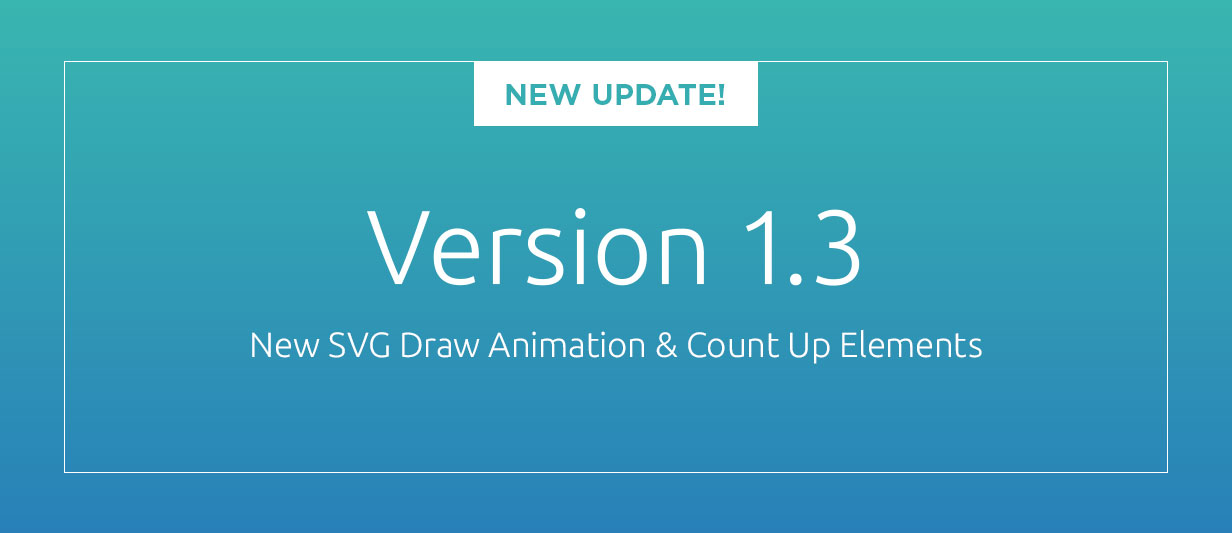
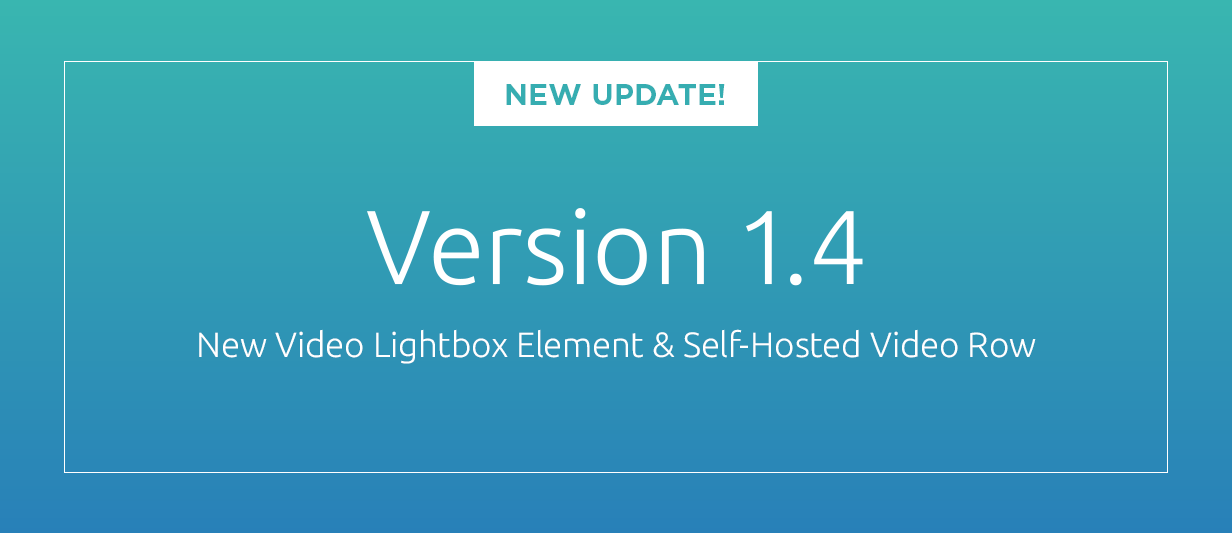
V1.4

Changed region(s): [[0.1542, 0.6004, 0.8328, 0.6904], [0.6477, 0.3902, 0.7094, 0.5403]]

diff --git a/cc/superbundle/demo.html b/cc/superbundle/demo.html
@@ -33,157 +33,163 @@
 			</button>
 		</div>
 		<div class="vcsb_card vcsb_plugin_separators" data-demo="http://demos2.gambit.ph/rowseparators/?nopreview" onclick="">
-	<div class="vcsb_image" style="background-image: url(http://source.unsplash.com/random/427x227?sig=97900)"></div>
+	<div class="vcsb_image" style="background-image: url(http://source.unsplash.com/random/438x235?sig=76414)"></div>
 	<span class="desc">Separate your content with unique row separators designs</span>
 	<span>Row Separators</span>
 	<span class="new"></span>
 </div>
 <div class="vcsb_card vcsb_plugin_row-scroll" data-demo="http://demos2.gambit.ph/rowscroll/?nopreview" onclick="">
-	<div class="vcsb_image" style="background-image: url(http://source.unsplash.com/random/422x231?sig=57662)"></div>
+	<div class="vcsb_image" style="background-image: url(http://source.unsplash.com/random/430x236?sig=43422)"></div>
 	<span class="desc">Add entrance and exit animations on your containers</span>
 	<span>Row Scroll Animations</span>
 	<span class="new"></span>
 </div>
 <div class="vcsb_card vcsb_plugin_fonts" data-demo="http://demos2.gambit.ph/fonts?nopreview" onclick="">
-	<div class="vcsb_image" style="background-image: url(http://source.unsplash.com/random/417x206?sig=78553)"></div>
+	<div class="vcsb_image" style="background-image: url(http://source.unsplash.com/random/434x203?sig=28220)"></div>
 	<span class="desc">Use 800+ Google fonts</span>
 	<span>Google Fonts</span>
 	<span class="new"></span>
 </div>
 <div class="vcsb_card vcsb_plugin_carousel" data-demo="http://demos2.gambit.ph/carousel/?nopreview" onclick="">
-	<div class="vcsb_image" style="background-image: url(http://source.unsplash.com/random/435x248?sig=25639)"></div>
+	<div class="vcsb_image" style="background-image: url(http://source.unsplash.com/random/448x241?sig=6694)"></div>
 	<span class="desc">Create carousels containing anything</span>
 	<span>Carousel</span>
 	<span class="new"></span>
 </div>
+<div class="vcsb_card vcsb_plugin_video-lightbox" data-demo="http://demos.gambit.ph/seamless-video-lightbox/" onclick="">
+	<div class="vcsb_image" style="background-image: url(http://source.unsplash.com/random/424x248?sig=16746)"></div>
+	<span class="desc">Play a large video lightbox popup</span>
+	<span>Video Lightbox</span>
+	<span class="new">New!</span>
+</div>
 <div class="vcsb_card vcsb_plugin_countup" data-demo="http://demos2.gambit.ph/number-count-up/?nopreview" onclick="">
-	<div class="vcsb_image" style="background-image: url(http://source.unsplash.com/random/419x211?sig=65949)"></div>
+	<div class="vcsb_image" style="background-image: url(http://source.unsplash.com/random/418x245?sig=28167)"></div>
 	<span class="desc">Count upward animation from zero</span>
 	<span>Count Up</span>
 	<span class="new">New!</span>
 </div>
 <div class="vcsb_card vcsb_plugin_shadows" data-demo="http://demos2.gambit.ph/shadows?nopreview" onclick="">
-	<div class="vcsb_image" style="background-image: url(http://source.unsplash.com/random/404x240?sig=99579)"></div>
+	<div class="vcsb_image" style="background-image: url(http://source.unsplash.com/random/405x200?sig=54086)"></div>
 	<span class="desc">Add shadows on columns, images and buttons</span>
 	<span>Shadows</span>
 	<span class="new"></span>
 </div>
 <div class="vcsb_card vcsb_plugin_text-gradient" data-demo="http://demos2.gambit.ph/text-gradient?nopreview" onclick="">
-	<div class="vcsb_image" style="background-image: url(http://source.unsplash.com/random/426x241?sig=35551)"></div>
+	<div class="vcsb_image" style="background-image: url(http://source.unsplash.com/random/436x221?sig=12497)"></div>
 	<span class="desc">Color your text with gradients</span>
 	<span>Text Gradient</span>
 	<span class="new"></span>
 </div>
 <div class="vcsb_card vcsb_plugin_svg-icons" data-demo="http://demos2.gambit.ph/12k-svg-icons/?nopreview" onclick="">
-	<div class="vcsb_image" style="background-image: url(http://source.unsplash.com/random/401x213?sig=97085)"></div>
+	<div class="vcsb_image" style="background-image: url(http://source.unsplash.com/random/443x231?sig=34551)"></div>
 	<span class="desc">Add icons & buttons, choose from 12,000+ SVG vector icons</span>
 	<span>SVG Icons</span>
 	<span class="new"></span>
 </div>
 <div class="vcsb_card vcsb_plugin_svgdraw" data-demo="http://demos2.gambit.ph/svg-draw-animation/?nopreview" onclick="">
-	<div class="vcsb_image" style="background-image: url(http://source.unsplash.com/random/444x219?sig=52827)"></div>
+	<div class="vcsb_image" style="background-image: url(http://source.unsplash.com/random/447x208?sig=25277)"></div>
 	<span class="desc">SVG draw outline entrance animation</span>
 	<span>SVG Draw Animation</span>
 	<span class="new">New!</span>
 </div>
 <div class="vcsb_card vcsb_plugin_text-effects" data-demo="http://demos2.gambit.ph/texteffects/?nopreview" onclick="">
-	<div class="vcsb_image" style="background-image: url(http://source.unsplash.com/random/423x202?sig=22575)"></div>
+	<div class="vcsb_image" style="background-image: url(http://source.unsplash.com/random/437x217?sig=89157)"></div>
 	<span class="desc">A cool animating text element, great for headings</span>
 	<span>Text Effects</span>
 	<span class="new"></span>
 </div>
 <div class="vcsb_card vcsb_plugin_hover-animations" data-demo="http://demos2.gambit.ph/hover-animation/?nopreview" onclick="">
-	<div class="vcsb_image" style="background-image: url(http://source.unsplash.com/random/424x239?sig=58817)"></div>
+	<div class="vcsb_image" style="background-image: url(http://source.unsplash.com/random/403x240?sig=44459)"></div>
 	<span class="desc">Add animations to elements and rows that play on hover</span>
 	<span>Hover Animations</span>
 	<span class="new"></span>
 </div>
 <div class="vcsb_card vcsb_plugin_css-animator" data-demo="http://demos2.gambit.ph/css-animator/?nopreview" onclick="">
-	<div class="vcsb_image" style="background-image: url(http://source.unsplash.com/random/405x246?sig=62482)"></div>
+	<div class="vcsb_image" style="background-image: url(http://source.unsplash.com/random/401x224?sig=19825)"></div>
 	<span class="desc">A container element that animates whatever you put in it</span>
 	<span>CSS Animator</span>
 	<span class="new"></span>
 </div>
 <div class="vcsb_card vcsb_plugin_device-mockups" data-demo="http://demos2.gambit.ph/mockup?nopreview" onclick="">
-	<div class="vcsb_image" style="background-image: url(http://source.unsplash.com/random/435x229?sig=99994)"></div>
+	<div class="vcsb_image" style="background-image: url(http://source.unsplash.com/random/404x228?sig=64771)"></div>
 	<span class="desc">Mockup images, carousels or videos inside desktops or mobile devices</span>
 	<span>Device Mockups</span>
 	<span class="new"></span>
 </div>
 <div class="vcsb_card vcsb_plugin_hero-boxes" data-demo="http://demos2.gambit.ph/herobox/?nopreview" onclick="">
-	<div class="vcsb_image" style="background-image: url(http://source.unsplash.com/random/418x228?sig=75477)"></div>
+	<div class="vcsb_image" style="background-image: url(http://source.unsplash.com/random/445x238?sig=64768)"></div>
 	<span class="desc">An image element with lots of unique hover effects</span>
 	<span>Hero Boxes</span>
 	<span class="new"></span>
 </div>
 <div class="vcsb_card vcsb_plugin_loupe" data-demo="http://demos2.gambit.ph/loupe?nopreview" onclick="">
-	<div class="vcsb_image" style="background-image: url(http://source.unsplash.com/random/429x205?sig=94448)"></div>
+	<div class="vcsb_image" style="background-image: url(http://source.unsplash.com/random/400x213?sig=79258)"></div>
 	<span class="desc">A circular magnifying glass that users can drag around to view your images</span>
 	<span>Image Loupe</span>
 	<span class="new"></span>
 </div>
 <div class="vcsb_card vcsb_plugin_before-after" data-demo="http://demos2.gambit.ph/before-after/?nopreview" onclick="">
-	<div class="vcsb_image" style="background-image: url(http://source.unsplash.com/random/418x209?sig=72622)"></div>
+	<div class="vcsb_image" style="background-image: url(http://source.unsplash.com/random/435x202?sig=31059)"></div>
 	<span class="desc">Slide between two images to view before and after photos</span>
 	<span>Before and After</span>
 	<span class="new"></span>
 </div>
 <div class="vcsb_card vcsb_plugin_isometric" data-demo="http://demos2.gambit.ph/isometric-tiles/?nopreview" onclick="">
-	<div class="vcsb_image" style="background-image: url(http://source.unsplash.com/random/425x228?sig=64108)"></div>
+	<div class="vcsb_image" style="background-image: url(http://source.unsplash.com/random/437x225?sig=56232)"></div>
 	<span class="desc">Display images in an arrangement of isometric tiles</span>
 	<span>Isometric Image Tiles</span>
 	<span class="new"></span>
 </div>
 <div class="vcsb_card vcsb_plugin_background-parallax" data-demo="http://demos2.gambit.ph/parallax/parallax-backgrounds-copy/?nopreview" onclick="">
-	<div class="vcsb_image" style="background-image: url(http://source.unsplash.com/random/403x246?sig=44292)"></div>
+	<div class="vcsb_image" style="background-image: url(http://source.unsplash.com/random/414x223?sig=46605)"></div>
 	<span class="desc">Smoother parallax, multiple parallaxes, up, down, left and right parallax</span>
 	<span>Parallax Background</span>
 	<span class="new"></span>
 </div>
 <div class="vcsb_card vcsb_plugin_background-video" data-demo="http://demos2.gambit.ph/parallax/video-backgrounds-copy/?nopreview" onclick="">
-	<div class="vcsb_image" style="background-image: url(http://source.unsplash.com/random/406x247?sig=64644)"></div>
+	<div class="vcsb_image" style="background-image: url(http://source.unsplash.com/random/410x216?sig=21319)"></div>
 	<span class="desc">HD YouTube or Vimeo video backgrounds, change their opacity to add color</span>
 	<span>Video Backgrounds</span>
 	<span class="new"></span>
 </div>
 <div class="vcsb_card vcsb_plugin_background-hover" data-demo="http://demos2.gambit.ph/parallax/hover-backgrounds-copy/?nopreview" onclick="">
-	<div class="vcsb_image" style="background-image: url(http://source.unsplash.com/random/413x241?sig=88440)"></div>
+	<div class="vcsb_image" style="background-image: url(http://source.unsplash.com/random/423x201?sig=57407)"></div>
 	<span class="desc">Let your background move or tilt with your mouse</span>
 	<span>Hover Backgrounds</span>
 	<span class="new"></span>
 </div>
 <div class="vcsb_card vcsb_plugin_background-cycle" data-demo="http://demos2.gambit.ph/parallax/color-cycle-backgrounds-copy/?nopreview" onclick="">
-	<div class="vcsb_image" style="background-image: url(http://source.unsplash.com/random/446x217?sig=37276)"></div>
+	<div class="vcsb_image" style="background-image: url(http://source.unsplash.com/random/437x237?sig=5653)"></div>
 	<span class="desc">Cycle between different background colors and tint background images</span>
 	<span>Color Cycle Backgrounds</span>
 	<span class="new"></span>
 </div>
 <div class="vcsb_card vcsb_plugin_background-gradient" data-demo="http://demos2.gambit.ph/parallax/gradient-backgrounds-copy/?nopreview" onclick="">
-	<div class="vcsb_image" style="background-image: url(http://source.unsplash.com/random/441x231?sig=22528)"></div>
+	<div class="vcsb_image" style="background-image: url(http://source.unsplash.com/random/442x220?sig=71755)"></div>
 	<span class="desc">Pick two colors to add a background gradient to your rows</span>
 	<span>Background Gradient</span>
 	<span class="new"></span>
 </div>
 <div class="vcsb_card vcsb_plugin_free-image-search" data-demo="http://demos2.gambit.ph/freeimagesearch?nopreview" onclick="">
-	<div class="vcsb_image" style="background-image: url(http://source.unsplash.com/random/419x210?sig=78447)"></div>
+	<div class="vcsb_image" style="background-image: url(http://source.unsplash.com/random/419x240?sig=34812)"></div>
 	<span class="desc">Search and download free images from inside the WordPress Media Manager</span>
 	<span>Free Image Search</span>
 	<span class="new"></span>
 </div>
 <div class="vcsb_card vcsb_plugin_live-preview" data-demo="http://demos2.gambit.ph/vcpreview/?nopreview" onclick="">
-	<div class="vcsb_image" style="background-image: url(http://source.unsplash.com/random/400x231?sig=37299)"></div>
+	<div class="vcsb_image" style="background-image: url(http://source.unsplash.com/random/413x238?sig=51083)"></div>
 	<span class="desc">Preview your changes live from the VC backend editor</span>
 	<span>Backend Live Preview</span>
 	<span class="new"></span>
 </div>
 <div class="vcsb_card vcsb_plugin_undo-redo" data-demo="http://demos2.gambit.ph/undo-redo/?nopreview" onclick="">
-	<div class="vcsb_image" style="background-image: url(http://source.unsplash.com/random/446x212?sig=77162)"></div>
+	<div class="vcsb_image" style="background-image: url(http://source.unsplash.com/random/409x249?sig=39020)"></div>
 	<span class="desc">Adds an undo and redo button to the backend of Visual Composer</span>
 	<span>Undo & Redo</span>
 	<span class="new"></span>
 </div>
 <div class="vcsb_card vcsb_plugin_smooth-scrolling" data-demo="http://demos2.gambit.ph/smooth-mousewheel/?nopreview" onclick="">
-	<div class="vcsb_image" style="background-image: url(http://source.unsplash.com/random/405x234?sig=57559)"></div>
+	<div class="vcsb_image" style="background-image: url(http://source.unsplash.com/random/427x207?sig=14037)"></div>
 	<span class="desc">Smoothens out the mousewheel to make page scrolling a better experience</span>
 	<span>Smooth Mouse Scroll</span>
 	<span class="new"></span>
